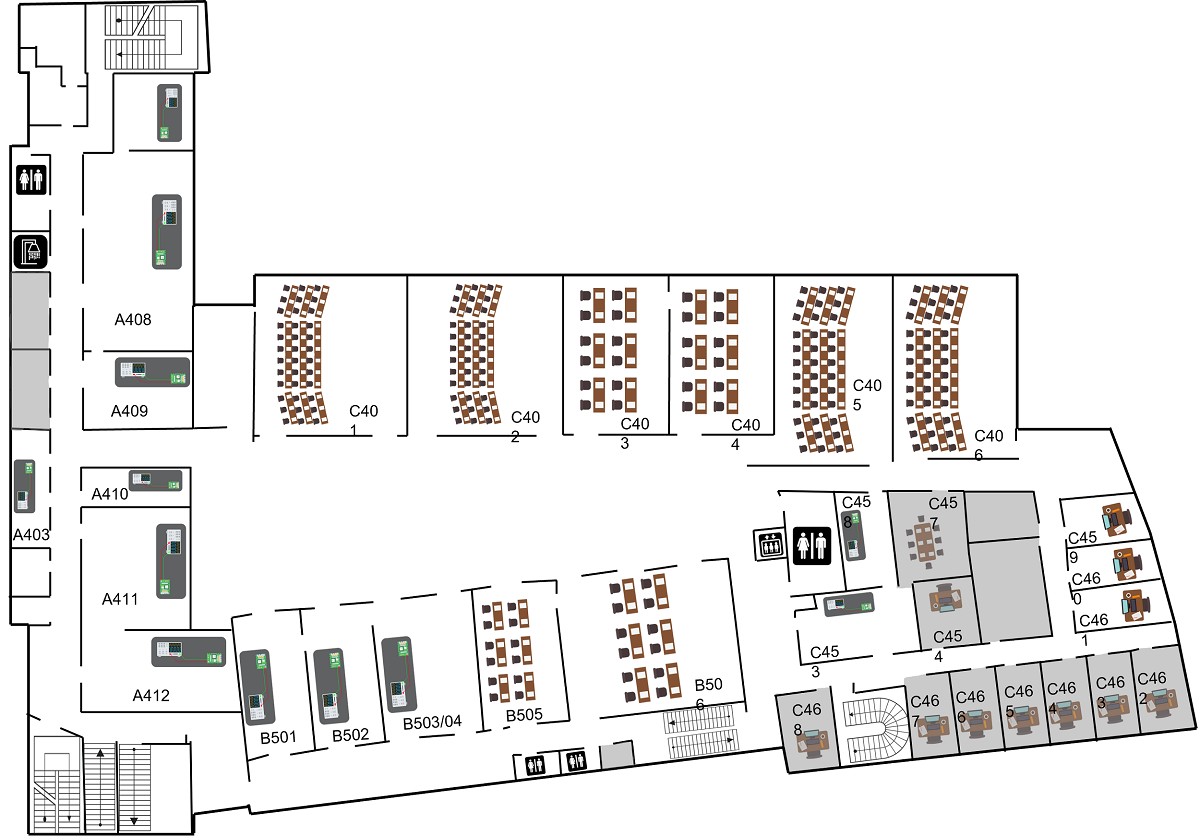
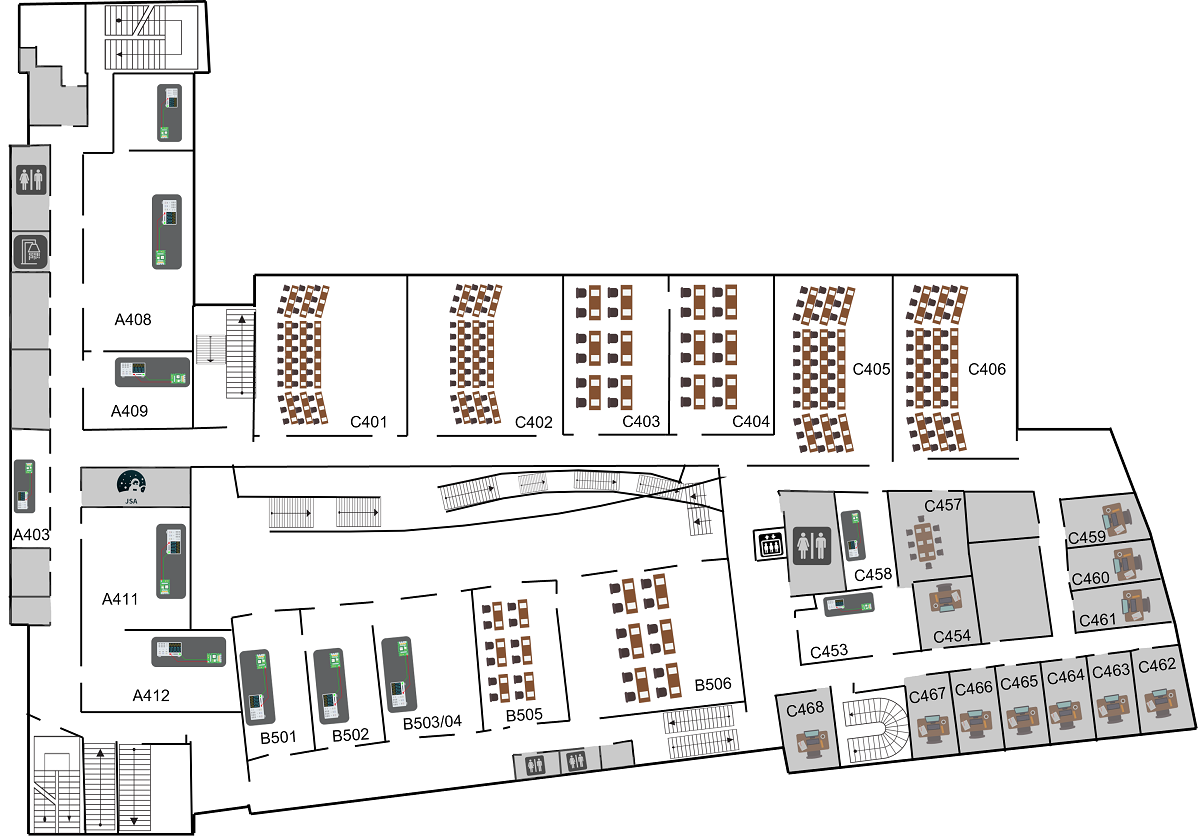
push florian mercredi matin

diff --git a/busysen/front/js/rooms.js b/busysen/front/js/rooms.js
@@ -1,23 +1,163 @@
 let rooms = [];
 
+let etage_1 = [];
 let etage0 = [];
 let etage1 = [];
-
+let etage2 = [];
+let etage3 = [];
+let etage4 = [];
+let etage5 = [];
 let room = new Object();
 
-/** Eatge 0 */
-rooms.push(etage0);
+/** Etage -1 */
+rooms.push(etage_1);
+//Salle A111
+etage_1.push(["A111","108,561,188,719", 0])
+//Salle A104
+etage_1.push(["A104","6,401,78,516", 0])
+//Salle A106
+etage_1.push(["A106","79,84,186,278", 0])
 
-/** Eatge 1 */
+
+/** Etage 0 */
+rooms.push(etage0);
+//Salle Codesign
+etage0.push(["CODESIGN","91,58,189,378", 0])
+//Salle Fablab
+etage0.push(["FABLAB","9,150,81,495", 0])
+//Salle B304
+etage0.push(["B304","478,583,601,718", -6])
+//Salle B305
+etage0.push(["B305","611,571,735,703", -6])
+//Salle C304
+etage0.push(["C304","592,284,775,454", 0])
+//Salle ADICODE
+etage0.push(["ADICODE","298,279,578,487", 0])
+
+/** Etage 1 */
 //Salle C401
 etage1.push(["C401","260,278,400,430", 0])
 //Salle C402
 etage1.push(["C402","414,279,555,430", 0])
 //Salle B501
 etage1.push(["B501","248,621,294,747", -6])
+//Salle C403
+etage1.push(["C403","567,281,661,429", 0])
+//Salle C404
+etage1.push(["C404","676,280,769,428", 0])
+//Salle C405
+etage1.push(["C405","780,281,882,457", 0])
+//Salle C406
+etage1.push(["C406","897,281,1010,454", 0])
+//Salle A408
+etage1.push(["A408","91,156,188,347", 0])
+//Salle A409
+etage1.push(["A409","87,356,189,424", 0])
+//Salle A403
+etage1.push(["A403","14,431,46,547", 0])
+//Salle A411
+etage1.push(["A411","87,512,187,626", 0])
+//Salle A412
+etage1.push(["A412","86,633,229,707", 0])
+//Salle B502
+etage1.push(["B502","313,618,367,743", -6])
+//Salle B503
+etage1.push(["B503","377,605,471,733", -6])
+//Salle B505
+etage1.push(["B505","479,591,561,721", -6])
+//Salle B506
+etage1.push(["B506","562,579,734,700", -6])
+//Salle C458
+etage1.push(["C458","845,497,891,584", -6])
+//Salle C453
+etage1.push(["C453","805,599,904,647", -6])
 
 
 rooms.push(etage1);
 
+/** Etage 2 */
+rooms.push(etage2);
+//Salle C601
+etage2.push(["C601","253,277,347,437", 0])
+//Salle C605
+etage2.push(["C605","560,277,679,372", 0])
+//Salle C609
+etage2.push(["C609","805,277,902,373", 0])
+//Salle C610
+etage2.push(["C610","907,288,1017,433", 0])
+//Salle A622
+etage2.push(["A622","115,554,184,628", 0])
+//Salle A624
+etage2.push(["A624","80,633,131,710", 0])
+//Salle A625
+etage2.push(["A625","138,633,182,710", 0])
+
+/** Etage 3 */
+rooms.push(etage3);
+//Salle A811
+etage3.push(["A811","80,120,189,231", 0])
+//Salle A812
+etage3.push(["A812","81,241,189,309", 0])
+//Salle A814
+etage3.push(["A814","81,473,188,548", 0])
+//Salle A815
+etage3.push(["A815","81,552,188,627", 0])
+//Salle A816
+etage3.push(["A816","81,631,234,713", 0])
+//Salle B801
+etage3.push(["B801","241,616,301,706", -6])
+//Salle B802
+etage3.push(["B802","310,605,474,707", -6])
+//Salle B803
+etage3.push(["B803","482,587,621,689", -6])
+//Salle B804
+etage3.push(["B804","634,567,740,709", -6])
+//Salle C854
+etage3.push(["C854","976,523,1159,747", -6])
+//Salle C811
+etage3.push(["C811","909,282,1019,418", 0])
+//Salle C810
+etage3.push(["C810","790,362,899,422", 0])
+//Salle C809
+etage3.push(["C809","641,276,784,422", 0])
+
+/** Etage 4 */
+rooms.push(etage4);
+//Salle A913
+etage4.push(["A913","113,78,178,233", 0])
+//Salle A911
+etage4.push(["A911","32,81,81,118", 0])
+//Salle A906
+etage4.push(["A906","12,240,81,351", 0])
+//Salle A905
+etage4.push(["A905","9,358,64,427", 0])
+//Salle A903
+etage4.push(["A903","12,474,79,589", 0])
+//Salle A918
+etage4.push(["A918","112,515,181,631", 0])
+//Salle A919
+etage4.push(["A919","113,636,222,750", 0])
+//Salle B902
+etage4.push(["B902","232,618,298,727", -6])
+//Salle B903
+etage4.push(["B903","308,607,469,708", -6])
+//Salle B904
+etage4.push(["B904","478,579,726,684", -6])
+//Salle C953
+etage4.push(["C953","786,693,925,758", -6])
+//Salle C954
+etage4.push(["C954","943,656,1057,744", -6])
+//Salle C955
+etage4.push(["C955","1063,608,1175,730", -8])
+//Salle C956
+etage4.push(["C956","988,519,1147,605", -8])
+
+
+/** Etage 5 : Mezzanine */
+rooms.push(etage5);
+//Salle C353
+etage5.push(["C353","973,519,1062,626", -6])
+
 console.log(rooms)
+
 

diff --git a/busysen/front/js/main.js b/busysen/front/js/main.js
@@ -32,8 +32,9 @@ day.setMinutes(0);
 day.setSeconds(0);
 
 //Creation de la page suivant l'étage
-let level = 1;
+let level = 0;
 addPlan(level)
+socket.emit("actuPlan", day, level);
 
 //Actu du slider
 slider.oninput = function() {
@@ -49,8 +50,68 @@ displayDate(day)
 //Affichage des salle dispo
 socket.on("actuPlan2", (freeRooms) => {
   console.log("les salles libre a ", day ," sont ", freeRooms);
+  console.log(freeRooms)
+  for( let u of freeRooms) {
+    document.getElementById(u).style.borderColor ='green' ;
+  }
+  for(let i = 0; i<rooms[level+1].length;i++) {
+    document.getElementById(rooms[level+1][i][0]).style.transform = "rotate( " + rooms[level+1][i][2] + "deg)"
+  }
 });
 
 socket.on("getDataRoom2", (freeRooms, nameRoom) => {
   console.log("les reservation de la salle ",nameRoom ," sont ", freeRooms);
+});
+
+
+/**  Change date with arrows */
+
+weekday = ['Dimanche','Lundi', 'Mardi', 'Mercredi', 'Jeudi', 'Vendredi','Samedi']
+months = ['janvier', 'février', 'mars', 'avril', 'mai', 'juin', 'juillet', 'août', 'septembre', 'octobre', 'novembre', 'décembre']
+
+document.getElementById('datePlus').addEventListener("click", event => {
+  day.setDate(day.getDate() + 1);
+  let d = weekday[day.getDay()];
+  let today = new Date();
+  document.getElementById("today").innerHTML = d + " " + (day.getDate()) + " " + months[day.getMonth()] + " " + day.getFullYear();
+  if (day.getDay() == 6) {
+    day.setDate(day.getDate() +1);
+  }
+  document.getElementById("dateMoins").disabled = false;
+  if (day.getDate() == today.getDate() + 7) {
+    document.getElementById("datePlus").disabled = true;
+  }
+  socket.emit("actuPlan", day, level);
+});
+
+document.getElementById('dateMoins').addEventListener("click", event => {
+  day.setDate(day.getDate() - 1);
+  let d = weekday[day.getDay()];
+  let today = new Date();
+  today.setHours(0);
+  today.setMinutes(0);
+  today.setSeconds(0);
+  document.getElementById("today").innerHTML = d + " " + (day.getDate()) + " " + months[day.getMonth()] + " " + day.getFullYear();
+  if (day.getDay() == 1) {
+    day.setDate(day.getDate() -  1);
+  }
+
+  day.setHours(0);
+  day.setMinutes(0);
+  day.setSeconds(0);
+  console.log("day", day);
+  console.log(today);
+  if (day.getDate() == today.getDate()) {
+    document.getElementById("dateMoins").disabled = true;
+  }
+  document.getElementById("datePlus").disabled = false;
+  socket.emit("actuPlan", day, level);
+});
+
+document.getElementById('niveauPlus').addEventListener("click", event => {
+  document.getElementById('container').remove();
+  level++;
+  document.getElementById('levelActu').innerHTML = level;
+  addPlan(level)
+  socket.emit("actuPlan", day, level);
 });

diff --git a/busysen/front/js/functions.js b/busysen/front/js/functions.js
@@ -3,9 +3,9 @@ function addPlan(level) { //ajout du plan et init des salle sur index
  
     string = "<div><img src='../images/" + level + ".png' usemap='#image-map'> <map name='image-map'>";
 
-    for(let i = 0; i<rooms[level].length;i++) {
-        string = string + "<area shape='rect' class='occuped' href='#!' title='rect' alt='rect' coords='" + rooms[level][i][1] + "' shape='rect' id='" + rooms[level][i][0] + "'>";
-        console.log(rooms[level][i])
+    for(let i = 0; i<rooms[level+1].length;i++) {
+        string = string + "<area shape='rect' class='occuped' href='#!' title='rect' alt='rect' coords='" + rooms[level+1][i][1] + "' shape='rect' id='A" + rooms[level+1][i][0] + "'>";
+        console.log(rooms[level+1][i])
         
 
     }
@@ -20,13 +20,13 @@ function addPlan(level) { //ajout du plan et init des salle sur index
     console.log(document.getElementById("C401"))
 
 
-    for(let i = 0; i<rooms[level].length;i++) {
+    for(let i = 0; i<rooms[level+1].length;i++) {
         var sheet = window.document.styleSheets[3];
-        sheet.insertRule('#' + rooms[level][i][0] + ' { transform: rotate( ' + rooms[level][i][2] + 'deg); }', sheet.cssRules.length);
-        document.getElementById(rooms[level][i][0]).addEventListener("click", e => {
+        sheet.insertRule('#' + rooms[level+1][i][0] + ' { transform: rotate( ' + rooms[level+1][i][2] + 'deg); }', sheet.cssRules.length);
+        document.getElementById("A" + rooms[level+1][i][0]).addEventListener("click", e => {
             document.getElementById('emploie').hidden=false;
-            document.getElementById('SelectRoom').innerHTML=rooms[level][i][0];
-            socket.emit("getDataRoom", rooms[level][i][0]);
+            document.getElementById('SelectRoom').innerHTML=rooms[level+1][i][0];
+            socket.emit("getDataRoom", rooms[level+1][i][0]);
         });
     }
 
@@ -38,7 +38,7 @@ function actuPlan(date, level) {
 }
 
 function displayDate(date){
-    var nodeDate = document.getElementById("date");
+    var nodeDate = document.getElementById("today");
 
     let dateLocale = date.toLocaleString('fr-FR',{
     weekday: 'long',

diff --git a/busysen/front/html/index.html b/busysen/front/html/index.html
@@ -53,7 +53,7 @@
 
             <div style="float:right;">
               <button id="niveauPlus" class="fa fa-arrow-up"></button> <br>
-              <span>Niveau 1</span> <br>
+              <p>Niveau <span id="levelActu">0</span></p> <br>
               <button id="niveauMoins" class="fa fa-arrow-down"></button>
             </div>
           
@@ -65,7 +65,7 @@
               </div>
               <div>
                 <button id="dateMoins" class="fa fa-arrow-left"></button>
-                <span id="date"></span>
+                <span id="today"></span>
                 <button id="datePlus" class="fa fa-arrow-right"></button>
               </div>
               
@@ -86,11 +86,9 @@
                 <div classe="w3-card-4">
                   <h1 style="background-color:#363636;color:white;margin:0;padding:1rem;">Emploi du temps</h1>
                   <p>Nom de la salle : <span id="SelectRoom"></span></p>
-                  <p>A quelle date voulez vous reserver?
-                    <input type="date" id="start" name="trip-start" min="2022-01-01" max="2022-12-31">
-                  </p>
                   <p>A quelle heure voulez-vous reserver?
-                    <input type="time" id="appt" name="appt" min="09:00" max="18:00" required>  
+                    de <input type="time" id="appt" name="appt" min="09:00" max="18:00" required> à  
+                    <input type="time" id="appt" name="appt" min="09:00" max="21:00" required>  
                   </p>
                   <button type="submit" style="margin-left:64rem;margin-bottom:1rem;" id="buttonReservation">Reserver</button>
                 </div>

diff --git a/busysen/front/css/style.css b/busysen/front/css/style.css
@@ -2,6 +2,9 @@
 		border:solid 3px red;
 }
 
+.free {
+	border:solid 3px green;
+}
 
 a { 
 	pointer-events: none; 
